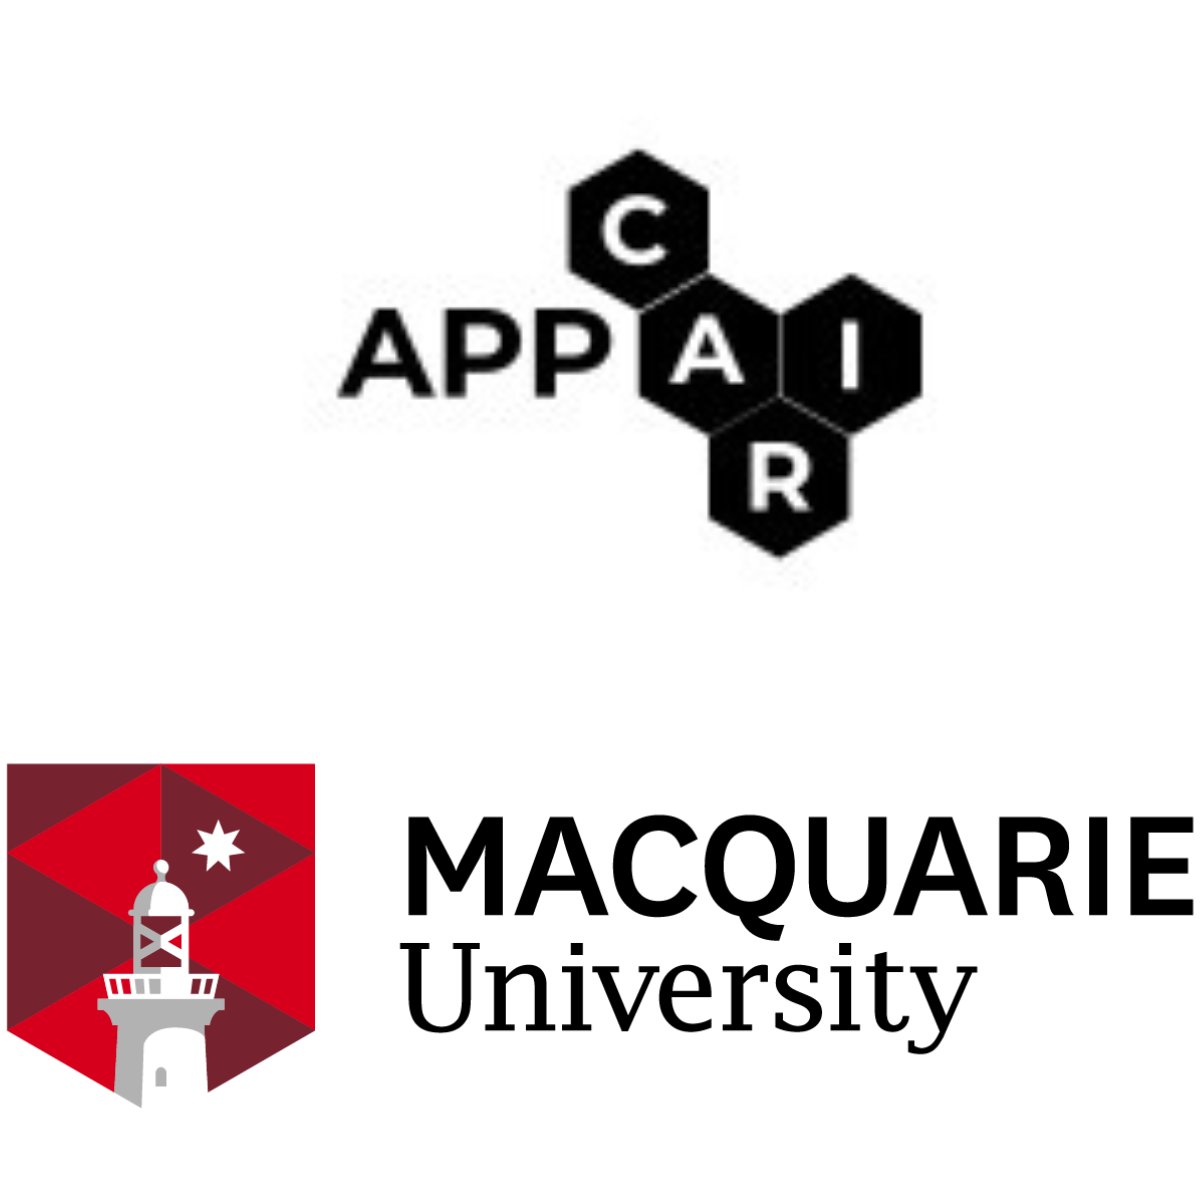
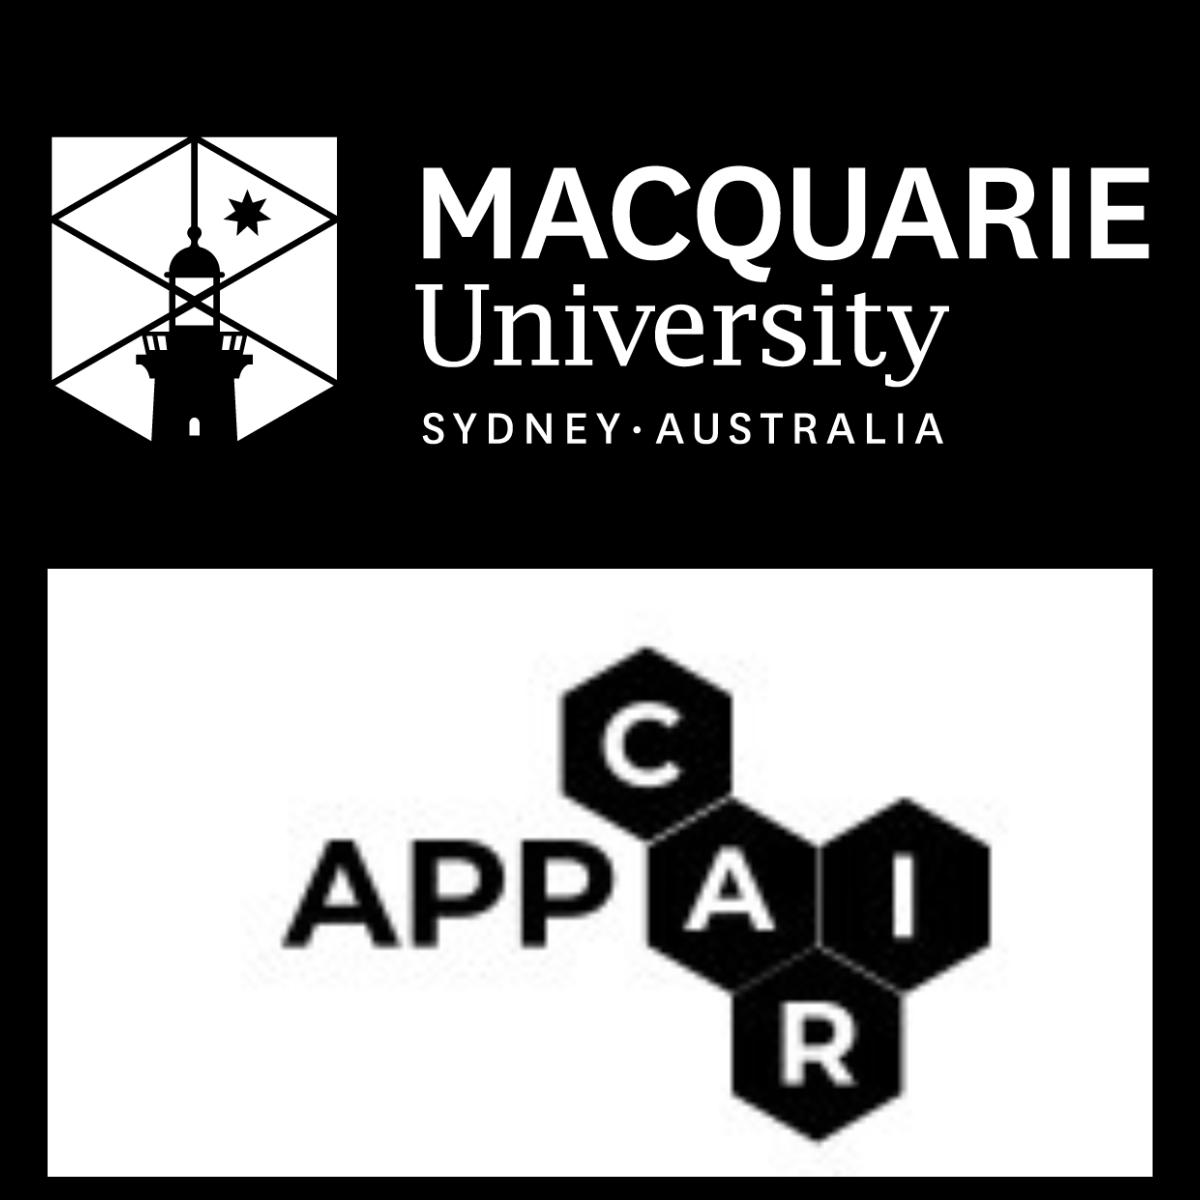
Darker

diff --git a/index.html b/index.html
@@ -32,7 +32,7 @@
     <!-- <link rel="stylesheet" type="text/css" href="stylesheet.css"> -->
     <link rel="icon" type="image/png" href="images/KB.jpg">
 </head>
-<body class="bg_colour">
+<body style="color: rgb(255, 255, 255); background-color: black;" class="bg_colour">
     <table border=0 class="bg_colour" style="width:100%;max-width:800px;border:0px;border-spacing:0px;border-collapse:separate;margin-right:auto;margin-left:auto;"><tbody>
         <tr style="padding:0px">
             <td style="padding:0px">
@@ -50,17 +50,19 @@
                                 <h1  style="text-align:center"><name>Karan Bania</name></h1>
                             </p>
                             <p style="text-align:center">
-                            &nbsp|&nbsp
+                            &nbsp-&nbsp
                             <a href="#news" onclick=Expand("news")>News</a>
-                            &nbsp|&nbsp
+                            &nbsp-&nbsp
                             <a href="#experience" onclick=Expand("experience")>Experience</a>
-                            &nbsp|&nbsp
+                            &nbsp-&nbsp
                             <a href="#projects" onclick=Expand("projects")>Projects</a>
-                            &nbsp|&nbsp
+                            &nbsp-&nbsp
                             <a href="mailto:karan.bania.9@gmail.com">Contact</a>
-                            &nbsp|&nbsp
+                            &nbsp-&nbsp
                             <a href="mailto:f20212582@goa.bits-pilani.ac.in">Alt. Contact</a>
-                            &nbsp|&nbsp
+                            &nbsp-&nbsp
+                            <a href="tel:+917069863756">Phone</a>
+                            &nbsp-&nbsp
                             </p>
                         </td>
                         <td style="padding:2.5%;width:10%;max-width:10%">
@@ -81,7 +83,8 @@
                                 generalist AI for radiology reports.
                             </p>
                             <p>
-                                My interests revolve around Graph Neural Networks, Multimodal Multitask Learning, Computer Vision and (some xD) Robotics. I 
+                                My interests revolve around <font style="color: red;">Graph Neural Networks</font>, <font style="color: greenyellow;">Multimodal Multitask Learning</font>, 
+                                <font style="color: gold;">Computer Vision</font> and (some xD) <font style="color: hotpink;">Robotics</font>. I 
                                 am actively looking for research work related to GNNs, if you would like to collaborate please drop an email!
                             </p>
                             <p>
@@ -129,7 +132,7 @@
 
                     <tr>
                         <td>
-                            <p style="color:darkblue; display:inline">August '23</p>
+                            <p style="color:rgb(195, 127, 0); display:inline">August '23</p>
                         </td>
                         <td>
                             Selected as a course instructor for the <a href="https://bpgc-cte.org/">CTE</a> course "Intro to ML/DL"!
@@ -138,7 +141,7 @@
 
                     <tr>
                         <td>
-                            <p style="color:darkblue; display:inline">August '23</p>
+                            <p style="color:rgb(149, 178, 0); display:inline">August '23</p>
                         </td>
                         <td>
                             Started at <a href="https://www.bits-pilani.ac.in/appcair/">APPCAIR lab</a> as a student researcher!
@@ -147,7 +150,7 @@
 
                     <tr>
                         <td>
-                            <p style="color:darkblue; display:inline">August '23</p>
+                            <p style="color:rgb(8, 166, 0); display:inline">August '23</p>
                         </td>
                         <td>
                             Selected as a teaching assistant for CS F214 - Logic in Computer Science.
@@ -156,7 +159,7 @@
 
                     <tr>
                         <td>
-                            <p style="color:darkblue; display:inline">July '23</p>
+                            <p style="color:rgb(0, 154, 168); display:inline">July '23</p>
                         </td>
                         <td>
                             Selected for <a href="http://cvit.iiit.ac.in/summerschool2023/">IIITH's 7th Summer School on AI</a> with focus on Computer Vision.
@@ -165,7 +168,7 @@
 
                     <tr>
                         <td>
-                            <p style="color:darkblue; display:inline">July '23</p>
+                            <p style="color:rgb(0, 25, 139); display:inline">July '23</p>
                         </td>
                         <td>
                             Selected for <a href="https://academy.neuromatch.io/">Neuromatch Summer School'23</a> in the Deep Learning Track.
@@ -174,7 +177,7 @@
 
                     <tr>
                         <td class="tdNews" style="width:12%; vertical-align:top">
-                            <p style="color:darkblue; display:inline">June '23</p>
+                            <p style="color:rgb(100, 0, 139); display:inline">June '23</p>
                         </td>
                         <td style="width:90%"> 
                            Will be working as a ML intern at <a href="https://www.linkedin.com/company/voice-qube/about/" target="_blank">VoiceQube</a> for summer 2023.
@@ -197,7 +200,7 @@
                     <tr>
                         <td style="padding:10px;width:25%;vertical-align:middle">
                             <div class="one">
-                                <img src='images/CoLab.png' width="120">
+                                <img src='images/CoLab.png' width="120" height="120">
                             </div>
                         </td>
                         <td style="padding:10px;width:75%;vertical-align:top">
@@ -237,7 +240,7 @@
                     <tr>
                         <td style="padding:10px;width:25%;vertical-align:middle">
                             <div class="one">
-                                <img src='images/VoiceQube.jpg' width="120">
+                                <img src='images/VoiceQube.png' width="120">
                             </div>
                         </td>
                         <td style="padding:10px;width:75%;vertical-align:top">
@@ -269,13 +272,13 @@
                     <tr>
                         <td style="padding:20px;width:25%;vertical-align:middle">
                             <div class="one">
-                                <img src='demos/SAiDL-show.gif' width="120">
+                                <img src='demos/SAiDL-show.gif' width="180">
                             </div>
                         </td>
                         <td style="padding:20px;width:75%;vertical-align:top">
                             <papertitle><big>Image Segmentation on arbitrary prompts using Open AI's CLIP</papertitle></big>
                             <br>
-                            <a href="https://github.com/karannb/SAiDL-Summer-Assignment-2023/tree/main/Computer_Vision">Code</a>
+                            <a href="https://github.com/karannb/SAiDL-Summer-Assignment-2023/tree/main/Computer_Vision">Respository</a>
                             <p> 
                                 I tried out various loss functions for segmentation and various model depths. 
                                 Increased the inference time processing speed by training a light-weight 
@@ -288,16 +291,16 @@
                     <tr>
                         <td style="padding:20px;width:25%;vertical-align:middle">
                             <div class="one">
-                                <img src='images/RL.png' width="120">
+                                <img src='images/RL.png' width="180" height="100">
                             </div>
                         </td>
                         <td style="padding:20px;width:75%;vertical-align:top">
                             <papertitle><big>Reinforcement Learning as a Sequence Modelling Task</papertitle></big>
                             <br>
-                            <a href="https://github.com/karannb/SAiDL-Summer-Assignment-2023/tree/main/Computer_Vision">Code</a>
+                            <a href="https://github.com/karannb/SAiDL-Summer-Assignment-2023/tree/main/Reinforcement_Learning">Respository</a>
                             <p> 
                                 Read up on decision transformers and replaced them with other sequence models; LSTMs, GRUs and an Elman RNN and 
-                                compared them to the original transformer. (The figure is a display of the results on LSTMs - Medium (data) - Normal (Rewards))
+                                compared them to the original transformer. (The figure is a display of the results on LSTMs - Medium (offline data) - Normal (Rewards))
                                 <br>
                             </p>
                         </td>
@@ -320,7 +323,6 @@
             </td>
         </tr>
     </table>
-
 </body>
 
 </html>
